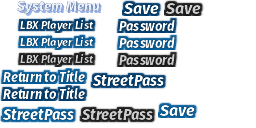
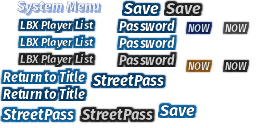
Redraw hint bars, boot notices, team tabs and more UI labels in English
Adds 7 atlases or atlas parts and 103 labels (529 in 42 atlases):
- 01000_086 and 01540_005: button hint bars as 7 px capitals
- 06516_004, 13230_002: hint bars that have the button icons inside;
  the icons stay and each word is replaced in place
- 01100_004, 01100_013, 13141_001: boot notice and the two save-data
  warnings, over the striped background
- 13080_003, 13080_005: StreetPass update button, current ON/OFF badges
- 13240_000: team tabs A-F
- 01002_008: Spectating badge

gfx.py: bg=repeat (step, thresh, also=) heals text on a repeating
background; wipe= sets a row background colour and now gives the wiped
pixels the commonest opacity of the area, so text on a translucent bar
leaves no ghost in the alpha channel; align=c for font=pixel; gap= and
more than two stacked lines.

Re-dump script/raw with the glyph overrides (three files change).

Changed region(s): [[0.7188, 0.4375, 1.0, 0.5938], [0.7188, 0.1562, 1.0, 0.2812]]

diff --git a/tools/gfx.py b/tools/gfx.py
@@ -29,7 +29,8 @@ Row options, space separated (a row with sprite `*` sets defaults):
   mode=outline|shadow|none  what surrounds the letters (default: sampled)
   outline=N    outline width in px (default: sampled)
   align=l|c|r  where the text sits in the sprite (default: centred on the
-               Japanese ink)
+               Japanese ink, which a highlight on a button can skew); with
+               font=pixel, c centres on the ink and the default is left
   valign=c     centre the text between the sprite's top and bottom
                (default: on the Japanese glyphs)
   like=N       take the colours from sprite N instead
@@ -40,12 +41,22 @@ Row options, space separated (a row with sprite `*` sets defaults):
   bg=rows      keep the sprite and paint over its text with each row's
                background colour (badges with a plain background); margin=N
                leaves N px at either end alone, thresh=N is how far a
-               pixel must be from the background to count as text (60)
+               pixel must be from the background to count as text (60),
+               wipe=RRGGBB takes that colour as every row's background
+               instead of sampling it (text that runs up to the badge's edge),
+               and gives the wiped pixels the commonest opacity of the rest
+  bg=repeat step=dx,dy   for light text on a background that repeats
+               every dx,dy px (the hex screens): each text pixel takes the
+               darkest of its copies whole steps away; thresh=N is how much
+               lighter than that a pixel must be to count as text (12);
+               also=<atlas> adds the copies in another atlas of the same
+               container (same place, same background, different text)
   pad=N        keep the text N px away from the sprite's edges
   rect=x,y,w,h use this atlas rectangle instead of the sprite's own
   in=x,y,w,h   replace only this part of the sprite (several rows may each
                take a part of one sprite)
-English `A|B` stacks two lines; `~` removes the Japanese and draws nothing.
+English `A|B` stacks two lines (more `|` for more lines; gap=N sets the
+space between them); `~` removes the Japanese and draws nothing.
 
 Usage:
   gfx.py list                         atlases and their sprite counts
@@ -216,7 +227,7 @@ def row_parts(rects, rows, defaults):
         yield sprite, en, opts, rect, (ix, iy, ix + iw, iy + ih)
 
 
-def background(img, rects, src, opts, rect, part):
+def background(img, rects, src, opts, rect, part, others=None):
     """What a row draws its English on, and the Japanese it removed.
 
     src is the part of the sprite the row replaces. Returns (base, marked):
@@ -224,12 +235,21 @@ def background(img, rects, src, opts, rect, part):
     part of a blank sprite (bg=N); marked is the removed text on a
     transparent image, or None when nothing was removed. Both come from
     the game's pixels, so the build recomputes them instead of storing
-    them in the overlay."""
+    them in the overlay. `others` maps the atlases named by also= to
+    their images."""
     w, h = rect[2:]
     size = (part[2] - part[0], part[3] - part[1])
+    if opts.get('bg') == 'repeat':
+        x, y = rect[:2]
+        step = tuple(int(v) for v in opts['step'].split(','))
+        box = (x, y, x + w, y + h)
+        extra = [others[n].crop(box) for n in also_names(opts)]
+        return heal_repeat(img.crop(box), part, step,
+                           int(opts.get('thresh', 12)), extra)
     if opts.get('bg') == 'rows':
         return wipe_rows(src, int(opts.get('margin', 0 if 'in' in opts else h // 2)),
-                         int(opts.get('thresh', 60)))
+                         int(opts.get('thresh', 60)),
+                         _hex(opts['wipe']) if 'wipe' in opts else None)
     if 'bg' in opts:
         bx, by, bw, bh = rects[int(opts['bg'])]
         base = img.crop((bx, by, bx + w, by + h)).crop(part)
@@ -241,7 +261,18 @@ def background(img, rects, src, opts, rect, part):
     return Image.new('RGBA', size, (0, 0, 0, 0)), None
 
 
-def apply(img, rects, name):
+def also_names(opts):
+    return [n for n in opts.get('also', '').split(',') if n]
+
+
+def table_others(name, load):
+    """{atlas: image} for every also= in table `name`; `load` reads one."""
+    rows, defaults = load_table(name)
+    names = {n for _, _, _, o in rows for n in also_names({**defaults, **o})}
+    return {n: load(n) for n in sorted(names)}
+
+
+def apply(img, rects, name, others=None):
     """Return `img` with the translated sprites of table `name` redrawn:
     each row's background (see background) with the overlay's English on
     top. Used by the build."""
@@ -254,7 +285,7 @@ def apply(img, rects, name):
     for sprite, en, opts, rect, part in row_parts(rects, rows, defaults):
         x, y, w, h = rect
         whole = drawn.get(rect) or img.crop((x, y, x + w, y + h))
-        base, _ = background(img, rects, whole.crop(part), opts, rect, part)
+        base, _ = background(img, rects, whole.crop(part), opts, rect, part, others)
         base.alpha_composite(labels.crop((x + part[0], y + part[1],
                                           x + part[2], y + part[3])))
         whole = whole.copy()
@@ -280,7 +311,12 @@ def patch_container(container, data):
         payload = mron.read_entry(data, entries[index])
         atlas = find_atlas(ids, index)
         rects = parse_atd(mron.read_entry(data, entries[atlas])) if atlas is not None else []
-        out[index] = aif.encode(payload, apply(aif.decode(payload), rects, table),
+        def load(other):
+            if other.split('_')[0] != container:
+                raise ValueError(f'{table}: also={other} is in another container')
+            return aif.decode(mron.read_entry(data, entries[entry_index(other)[1]]))
+        others = table_others(table, load)
+        out[index] = aif.encode(payload, apply(aif.decode(payload), rects, table, others),
                                 changed_rects(rects, table))
     return out
 
@@ -522,7 +558,7 @@ def draw_label(size, text, look, opts):
         widths = [font.getlength(s) + lean for s in lines]
         asc = font.getbbox('H')
         cap_h = asc[3] - asc[1]
-        gap = max(2, cap_h // 3)
+        gap = int(opts['gap']) if 'gap' in opts else max(2, cap_h // 3)
         block = cap_h * len(lines) + gap * (len(lines) - 1)
         rise = max(0, asc[1] - font.getbbox(lines[0])[1])   # l, d, k above H
         drop = max(0, font.getbbox(lines[-1])[3] - asc[3])  # g, p, y below
@@ -555,6 +591,8 @@ def draw_label(size, text, look, opts):
             x = min(x, max(pad_l, w - pad_r - tw))
         elif align == 'r':
             x = w - pad_r - tw
+        elif align == 'c':
+            x = pad_l + round((w - pad_l - pad_r - tw) / 2)
         else:
             centre = (look['left'] + look['right'] - dx) / 2
             x = round(centre - tw / 2)
@@ -590,13 +628,13 @@ def draw_label(size, text, look, opts):
     return out, warn
 
 
-def wipe_rows(sprite, margin, thresh=60):
+def wipe_rows(sprite, margin, thresh=60, colour=None):
     """Remove text drawn on a badge whose background only changes from row
     to row: every pixel that stands out from its row's background colour,
     `margin` px in from either end, becomes that colour. The background of
     a row is sampled at its two ends, so the area must be a little wider
-    than the text. Returns the cleaned sprite and the removed text on a
-    transparent image."""
+    than the text, unless `colour` gives the background instead. Returns
+    the cleaned sprite and the removed text on a transparent image."""
     w, h = sprite.size
     base = sprite.copy()
     marked = Image.new('RGBA', (w, h), (0, 0, 0, 0))
@@ -617,7 +655,7 @@ def wipe_rows(sprite, margin, thresh=60):
         # the row's background: what it looks like at either end, where
         # there is no text
         k = max(3, min(6, len(row) // 8))
-        med[y] = median(row[:k] + row[-k:])
+        med[y] = colour or median(row[:k] + row[-k:])
         for x in range(margin, w - margin):
             p = src[x, y]
             if p[3] > 16 and dist(p, med[y]) > thresh:
@@ -630,7 +668,20 @@ def wipe_rows(sprite, margin, thresh=60):
              for i in (-2, -1, 0, 1, 2) for j in (-2, -1, 0, 1, 2)}
     wiped = {(x, y) for x, y in wiped
              if margin <= x < w - margin and y in med and src[x, y][3] > 16}
+    flat = None
+    if colour:
+        # a background of one colour has one opacity too: the commonest
+        # among the pixels that stay (text on a translucent bar is opaque)
+        counts = {}
+        for y in med:
+            for x in range(margin, w - margin):
+                if (x, y) not in wiped and src[x, y][3] > 16:
+                    counts[src[x, y][3]] = counts.get(src[x, y][3], 0) + 1
+        flat = max(counts, key=counts.get) if counts else None
     for x, y in wiped:
+        if flat is not None:
+            dst[x, y] = med[y] + (flat,)
+            continue
         # opacity: carried over from the nearest untouched pixels of the row
         # (the background may fade out sideways)
         near = []
@@ -649,12 +700,53 @@ def wipe_rows(sprite, margin, thresh=60):
     return base, marked
 
 
+def heal_repeat(sprite, part, step, thresh=12, others=()):
+    """Remove light text from a background that repeats every `step`
+    (dx, dy) px: a pixel lighter by more than `thresh` than the darkest of
+    its copies whole steps away becomes that copy. Text that covers every
+    copy of a pixel stays. `others` are images of the same background with
+    different text, whose copies (and the pixel itself) count too. Returns
+    the cleaned `part` of the sprite and the removed text on a transparent
+    image."""
+    dx, dy = step
+    if not dx and not dy:
+        raise ValueError('step=0,0')
+    w, h = sprite.size
+    px = sprite.load()
+    more = [o.load() for o in others]
+    base = sprite.crop(part)
+    marked = Image.new('RGBA', base.size, (0, 0, 0, 0))
+    bp, mp = base.load(), marked.load()
+
+    def lum(p):
+        return (p[0] * 299 + p[1] * 587 + p[2] * 114) / 1000
+
+    for y in range(part[1], part[3]):
+        for x in range(part[0], part[2]):
+            p = best = px[x, y]
+            for op in more:
+                if lum(op[x, y]) < lum(best):
+                    best = op[x, y]
+            for sign in (1, -1):
+                cx, cy = x + sign * dx, y + sign * dy
+                while 0 <= cx < w and 0 <= cy < h:
+                    for q in [px[cx, cy]] + [op[cx, cy] for op in more]:
+                        if lum(q) < lum(best):
+                            best = q
+                    cx, cy = cx + sign * dx, cy + sign * dy
+            if lum(p) - lum(best) > thresh:
+                bp[x - part[0], y - part[1]] = best
+                mp[x - part[0], y - part[1]] = p
+    return base, marked
+
+
 def render(name):
     """Draw the overlay PNG of table `name`: the English labels alone, on
     a transparent atlas-sized image, so it holds none of the game's art.
     Returns fit warnings."""
     img, rects = load_atlas(name)
     rows, defaults = load_table(name)
+    others = table_others(name, lambda n: load_atlas(n)[0])
     labels = Image.new('RGBA', img.size, (0, 0, 0, 0))
     warnings = []
     drawn = {}      # rectangle -> sprite as redrawn so far (several rows may
@@ -663,7 +755,7 @@ def render(name):
         x, y, w, h = rect
         whole = drawn.get(rect) or img.crop((x, y, x + w, y + h))
         src = whole.crop(part)
-        base, marked = background(img, rects, src, opts, rect, part)
+        base, marked = background(img, rects, src, opts, rect, part, others)
         look = analyse(marked if marked is not None else src)
         if 'like' in opts:
             lx, ly, lw, lh = rects[int(opts['like'])]
@@ -730,7 +822,7 @@ def sprites_sheet(name, out_png, scale=2):
 def preview(name, out_png, scale=2):
     img, rects = load_atlas(name)
     rows, defaults = load_table(name)
-    new = apply(img, rects, name)
+    new = apply(img, rects, name, table_others(name, lambda n: load_atlas(n)[0]))
     cells = []
     for sprite, _, _, opts in rows:
         x, y, w, h = row_rect(rects, sprite, {**defaults, **opts})
